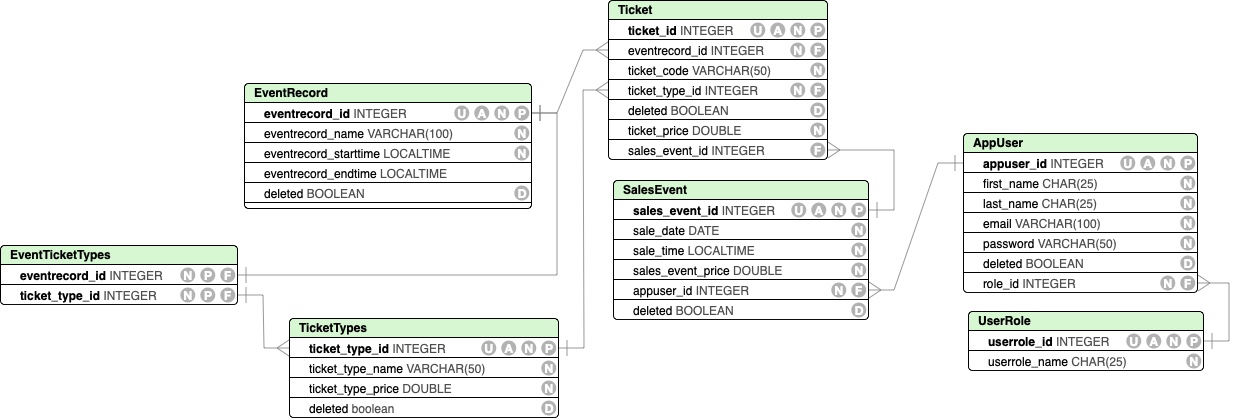
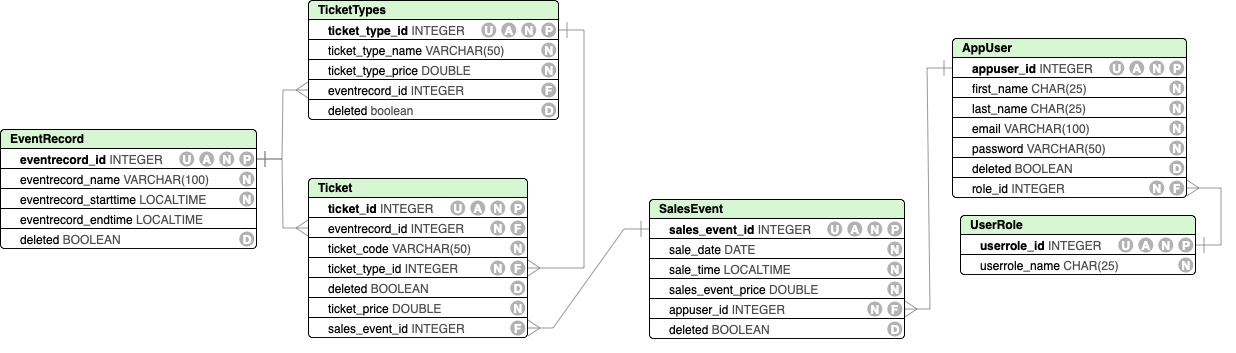
tietokantamalli ja alustava kanta päivvitetty

diff --git a/kanta.md b/kanta.md
@@ -27,6 +27,7 @@ CREATE TABLE TicketTypes
 ticket_type_id INTEGER NOT NULL AUTO_INCREMENT  UNIQUE ,
 ticket_type_name VARCHAR(50) NOT NULL,
 ticket_type_price DOUBLE NOT NULL,
+eventrecord_id INTEGER,
 deleted BOOLEAN DEFAULT 'false',
 CONSTRAINT TicketTypes_pkey PRIMARY KEY (ticket_type_id)
 );
@@ -50,13 +51,6 @@ sales_event_id INTEGER,
 CONSTRAINT Ticket_pkey PRIMARY KEY (ticket_id)
 );
 
-CREATE TABLE EventTicketTypes
-(
-eventrecord_id INTEGER NOT NULL,
-ticket_type_id INTEGER NOT NULL,
-CONSTRAINT EventTicketTypes_pkey PRIMARY KEY (eventrecord_id,ticket_type_id)
-);
-
 CREATE TABLE AppUser
 (
 appuser_id INTEGER NOT NULL AUTO_INCREMENT  UNIQUE ,
@@ -71,14 +65,12 @@ CONSTRAINT AppUser_pkey PRIMARY KEY (appuser_id)
 
 ALTER TABLE SalesEvent ADD FOREIGN KEY (appuser_id) REFERENCES AppUser (appuser_id);
 
+ALTER TABLE TicketTypes ADD FOREIGN KEY (eventrecord_id) REFERENCES EventRecord (eventrecord_id);
+
 ALTER TABLE Ticket ADD FOREIGN KEY (eventrecord_id) REFERENCES EventRecord (eventrecord_id);
 
 ALTER TABLE Ticket ADD FOREIGN KEY (ticket_type_id) REFERENCES TicketTypes (ticket_type_id);
 
 ALTER TABLE Ticket ADD FOREIGN KEY (sales_event_id) REFERENCES SalesEvent (sales_event_id);
-
-ALTER TABLE EventTicketTypes ADD FOREIGN KEY (eventrecord_id) REFERENCES EventRecord (eventrecord_id);
-
-ALTER TABLE EventTicketTypes ADD FOREIGN KEY (ticket_type_id) REFERENCES TicketTypes (ticket_type_id);
 
 ALTER TABLE AppUser ADD FOREIGN KEY (role_id) REFERENCES UserRole (userrole_id);
